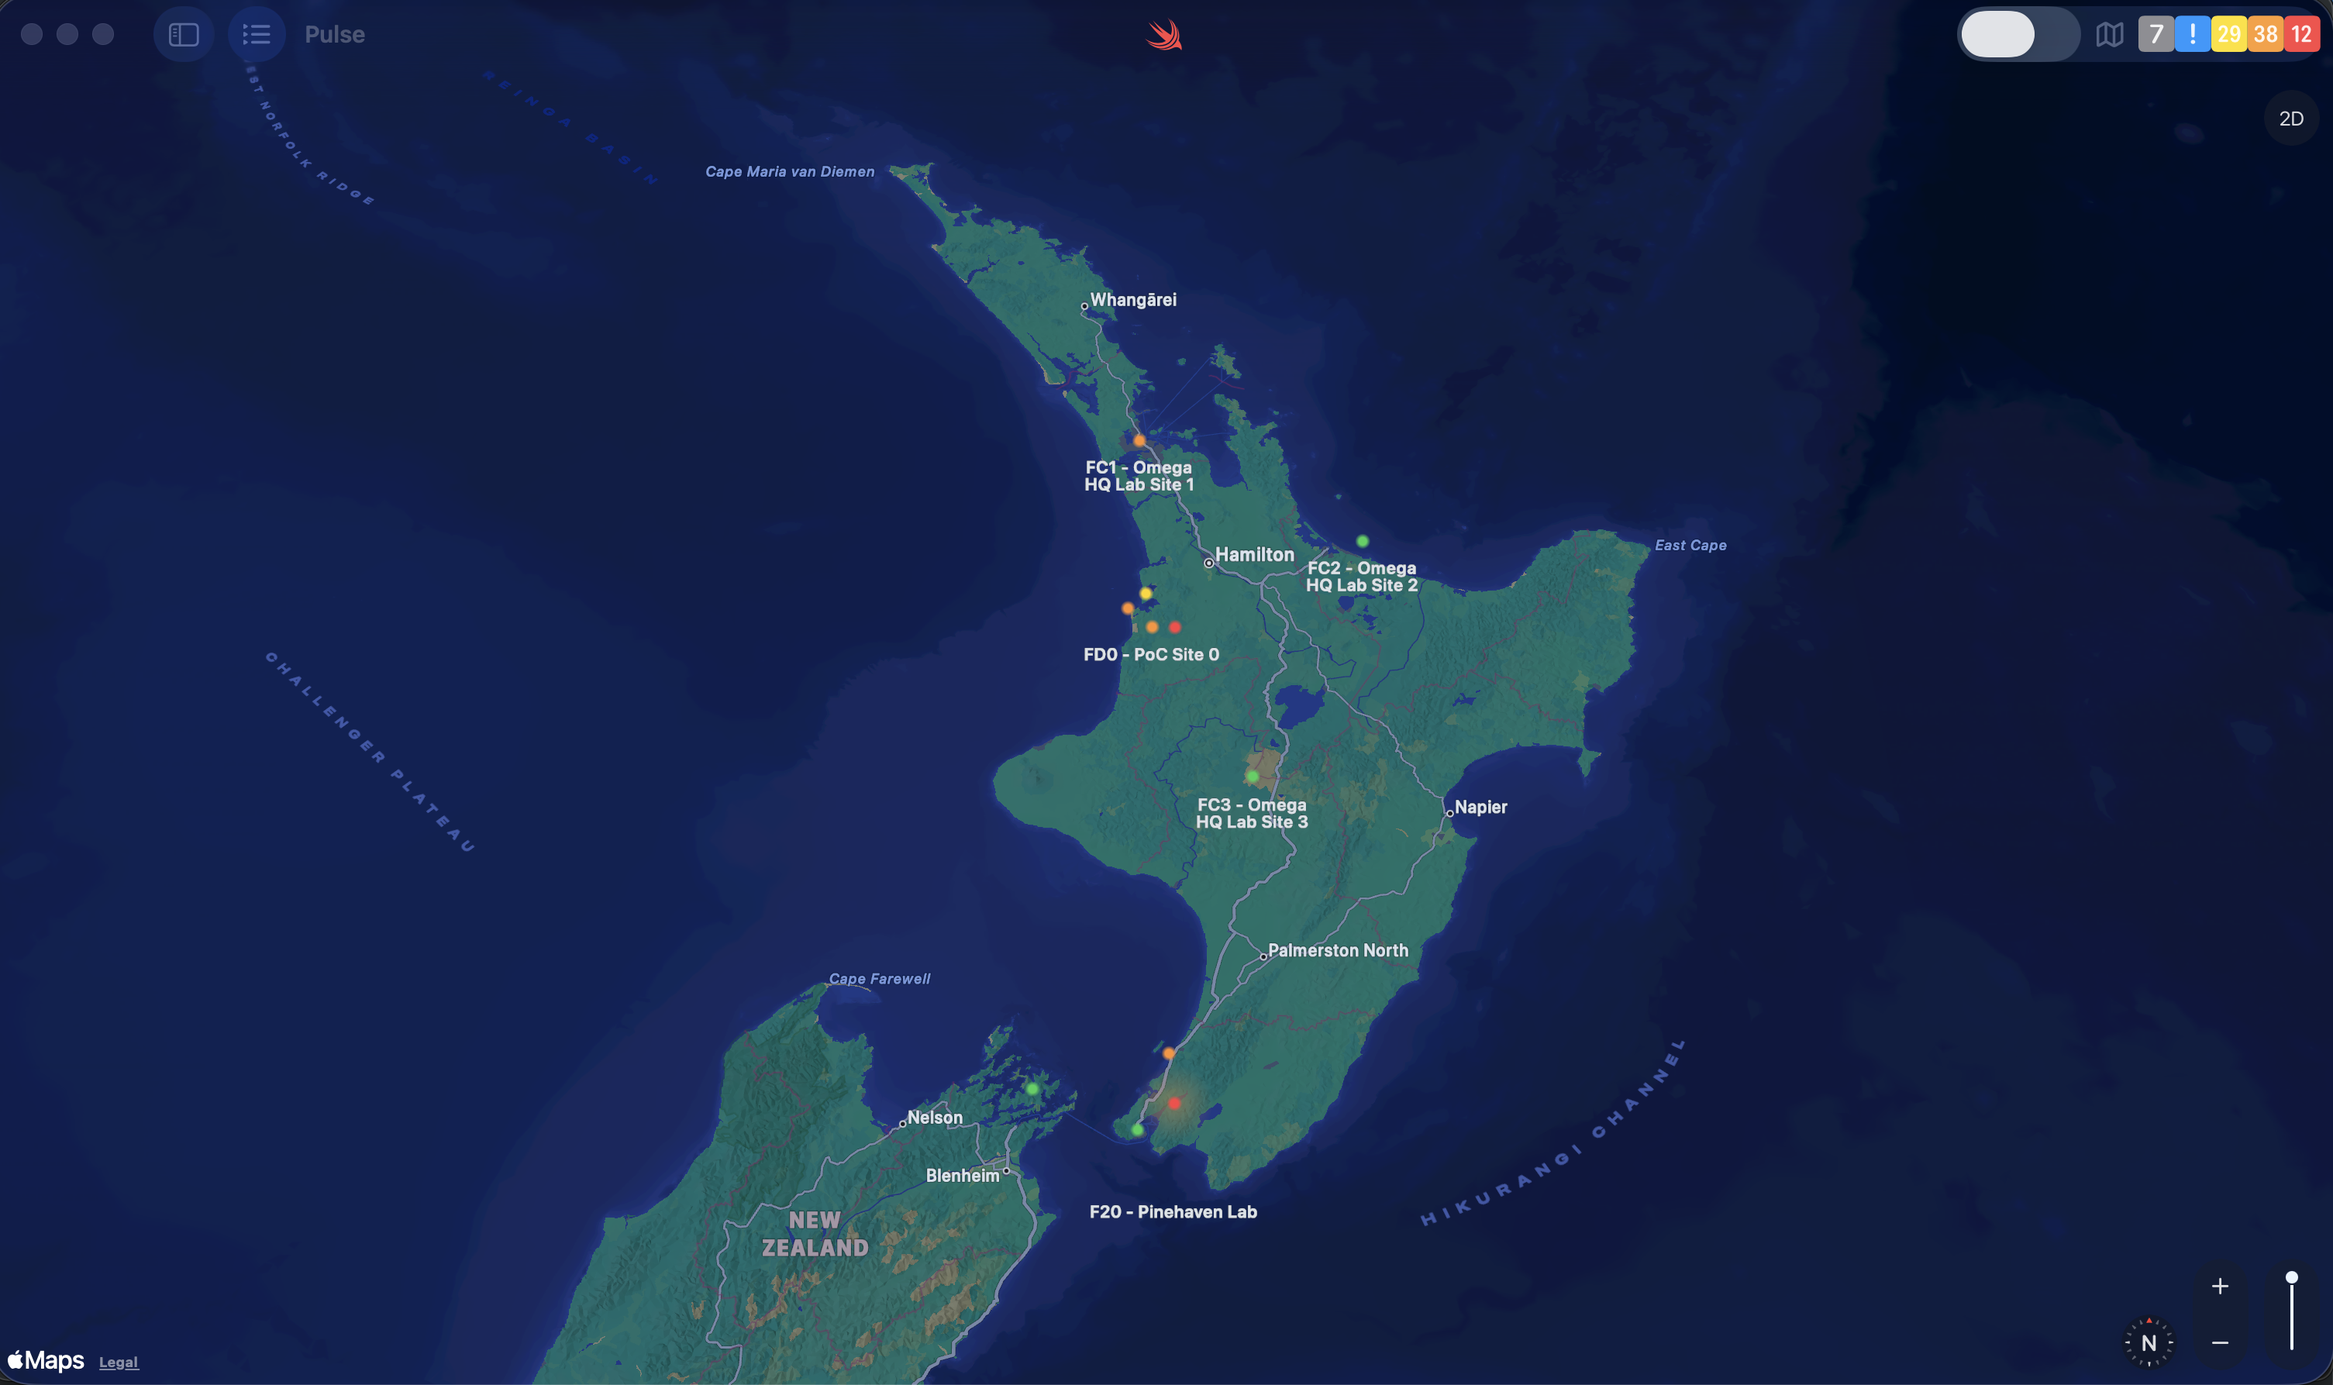
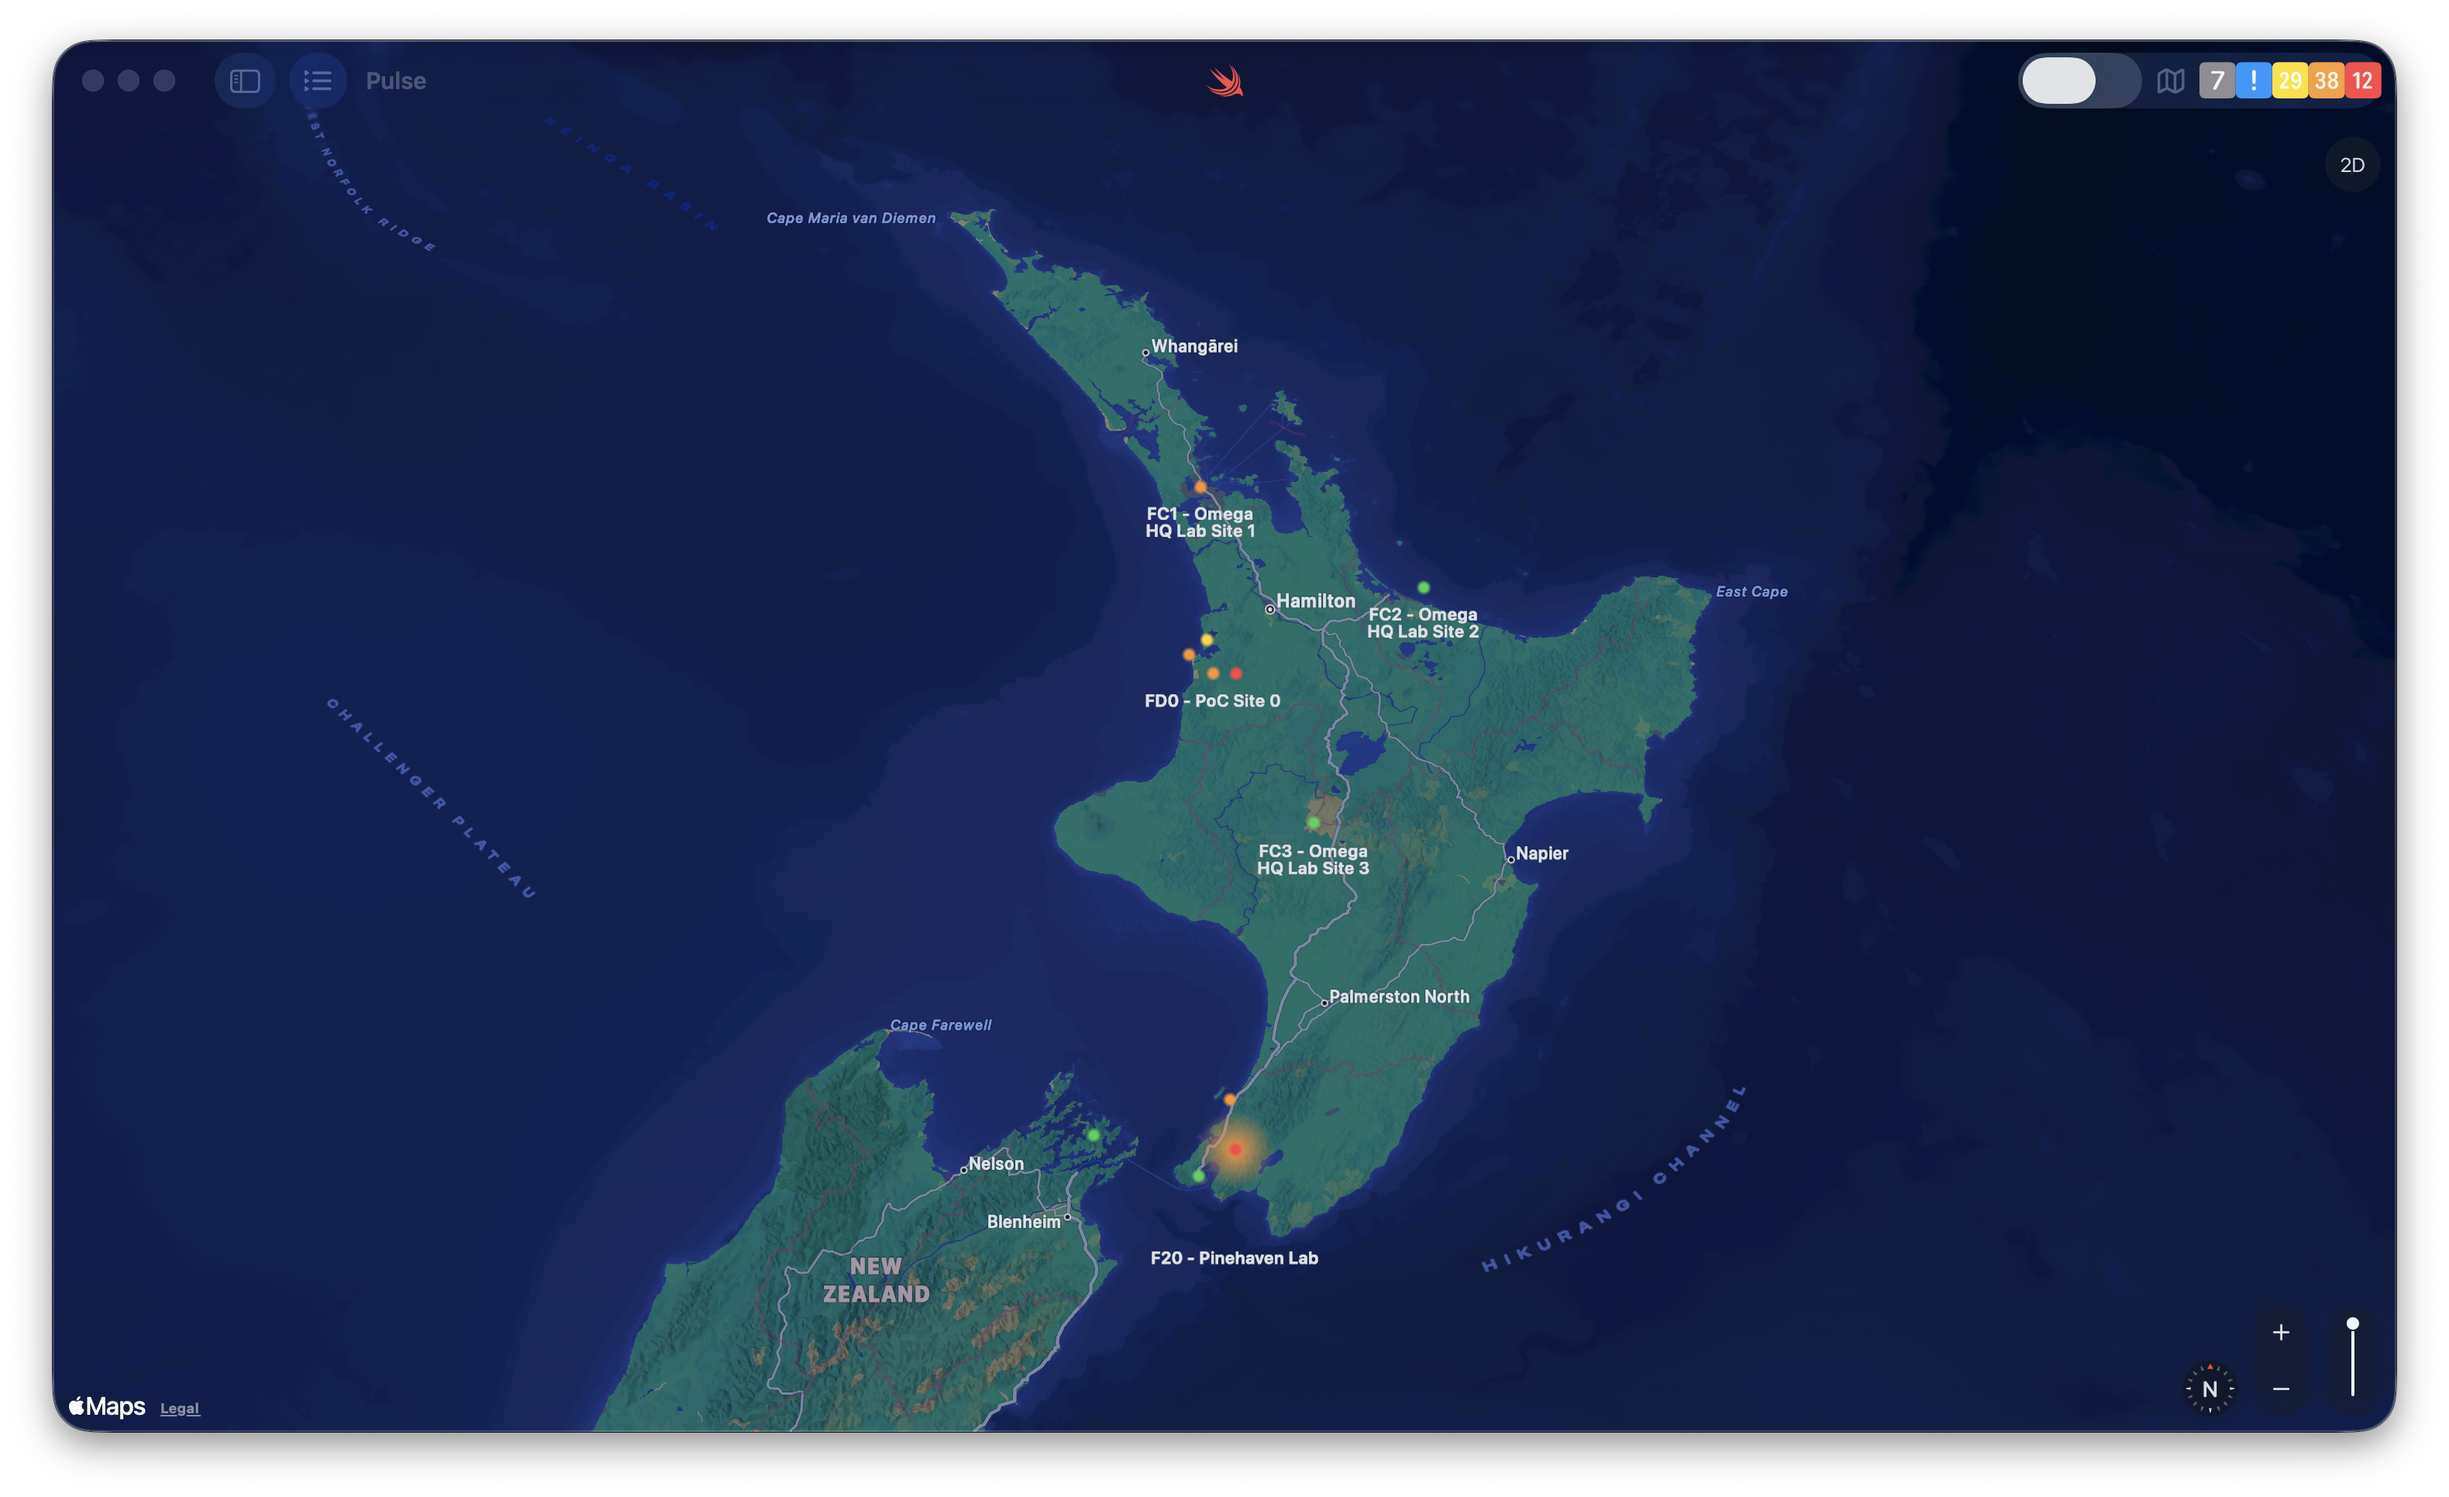
Added Diagram and Small Edits
Removed PulseTests from Project
Updated mapview example 1 to app screenshot

diff --git a/docs/media/pulse_architecture_diagram.md b/docs/media/pulse_architecture_diagram.md
@@ -1,0 +1,97 @@
+# Pulse: Unified Infrastructure Platform Architecture
+
+```mermaid
+graph TB
+    %% Infrastructure Sources
+    subgraph Sources["📡 Infrastructure Sources"]
+        NetBox["🏢 NetBox<br/>Asset Management<br/>Source of Truth"]
+        Zabbix["📊 Zabbix<br/>Real-time Monitoring<br/>Status & Alerts"]
+        Cameras["📹 Camera Systems<br/>Live Feeds<br/>Visual Verification"]
+        IoT["🌡 IoT Sensors<br/>Environmental Data<br/>Temperature, Power, etc."]
+        Future["⚡ Future Sources<br/>SCADA, Building Mgmt<br/>Plugin Architecture"]
+    end
+
+    %% Pulse Core Platform
+    subgraph PulseCore["🔥 Pulse Platform<br/>100% Local Processing • No Cloud Dependencies"]
+        API["🔌 API Integration Layer<br/>Unified data ingestion & normalization"]
+        Cache["💾 Local Data Cache<br/>SwiftData persistence & offline capability"]
+        Engine["⚙ Processing Engine<br/>Pattern recognition & anomaly detection"]
+        AI["🧠 Local AI (MLX)<br/>On-device intelligence & predictions"]
+        Viz["🎨 Visualization Engine<br/>MapKit, SceneKit, SwiftUI rendering"]
+    end
+
+    %% User Interfaces
+    subgraph UIs["👥 User Interfaces"]
+        macOS["🖥 macOS App<br/>• Full featured desktop<br/>• 2D/3D visualization<br/>• Multi-monitor support"]
+        iOS["📱 iOS/iPadOS<br/>• Mobile operations<br/>• Field response<br/>• Touch interface"]
+        
+        subgraph Capabilities["✨ Key Capabilities"]
+            Cap1["✓ Geographic mapping"]
+            Cap2["✓ Network topology"]
+            Cap3["✓ Real-time alerts"]
+            Cap4["✓ Historical analysis"]
+            Cap5["✓ Cross-org sharing"]
+            Cap6["✓ Emergency response"]
+        end
+        
+        Future2["🥽 Coming Soon<br/>visionOS • tvOS"]
+    end
+
+    %% Data Flow Connections
+    NetBox --> API
+    Zabbix --> API
+    Cameras --> API
+    IoT --> API
+    Future -.-> API
+
+    %% Pulse Internal Flow
+    API --> Cache
+    Cache --> Engine
+    Engine --> AI
+    AI --> Viz
+
+    %% Output to Interfaces
+    Viz --> macOS
+    Viz --> iOS
+    Viz -.-> Future2
+
+    %% Styling
+    classDef sourceBox fill:#e3f2fd,stroke:#1976d2,stroke-width:2px
+    classDef pulseBox fill:#fff3e0,stroke:#f57c00,stroke-width:3px
+    classDef uiBox fill:#e8f5e9,stroke:#388e3c,stroke-width:2px
+    classDef futureBox fill:#f5f5f5,stroke:#bdbdbd,stroke-width:2px,stroke-dasharray: 5 5
+    classDef capBox fill:#f1f8e9,stroke:#689f38,stroke-width:1px
+
+    class NetBox,Zabbix,Cameras,IoT sourceBox
+    class API,Cache,Engine,AI,Viz pulseBox
+    class macOS,iOS uiBox
+    class Future,Future2 futureBox
+    class Cap1,Cap2,Cap3,Cap4,Cap5,Cap6 capBox
+```
+
+## Architecture Principles
+
+### 🔒 Zero Cloud Dependencies
+- All processing happens locally on your hardware
+- No external vulnerabilities or vendor lock-in
+- Complete data sovereignty and control
+
+### 🌐 Unified Data Ingestion
+- Single platform for multiple infrastructure sources
+- Normalized data model across all inputs
+- Real-time synchronization and offline capability
+
+### 🧠 Local Intelligence
+- On-device AI/ML using Apple's MLX framework
+- Pattern recognition and anomaly detection
+- Predictive analytics without data leaving your environment
+
+### 📱 Native Apple Experience
+- Built with SwiftUI for optimal performance
+- Leverages platform capabilities (MapKit, SceneKit)
+- Consistent experience across all Apple devices
+
+### 🔄 Extensible Architecture
+- Plugin system for future data sources
+- Modular design supporting new capabilities
+- API-first approach for integration flexibility
